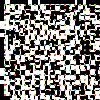
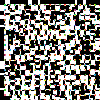
Updated canada.pymy1.png .

diff --git a/canada.py b/canada.py
@@ -36,13 +36,13 @@ moverPieza(outp,3,0,0,14)
 moverPieza(outp,4,7,0,3)
 moverPieza(outp,5,3,0,17)
 moverPieza(outp,7,17,0,13)
-moverPieza(outp,8,8,0,2)
+moverPieza(outp,8,8,0,1)
 moverPieza(outp,10,1,0,5)
 moverPieza(outp,11,11,0,8)
 moverPieza(outp,12,16,0,16)
 moverPieza(outp,13,6,0,11)
 moverPieza(outp,15,5,0,12)
-moverPieza(outp,16,5,0,1)
+moverPieza(outp,16,5,0,2)
 moverPieza(outp,17,4,0,15)
 moverPieza(outp,17,12,0,18)
 moverPieza(outp,18,10,0,6)
@@ -54,6 +54,7 @@ moverPieza(outp,9,16,16,19)
 moverPieza(outp,4,7,15,19)
 moverPieza(outp,3,16,14,19)
 moverPieza(outp,19,5,3,3)
+#moverPieza(outp,9,0,19,17)
 
 for a in range(1):
     for i in range(1,20):
